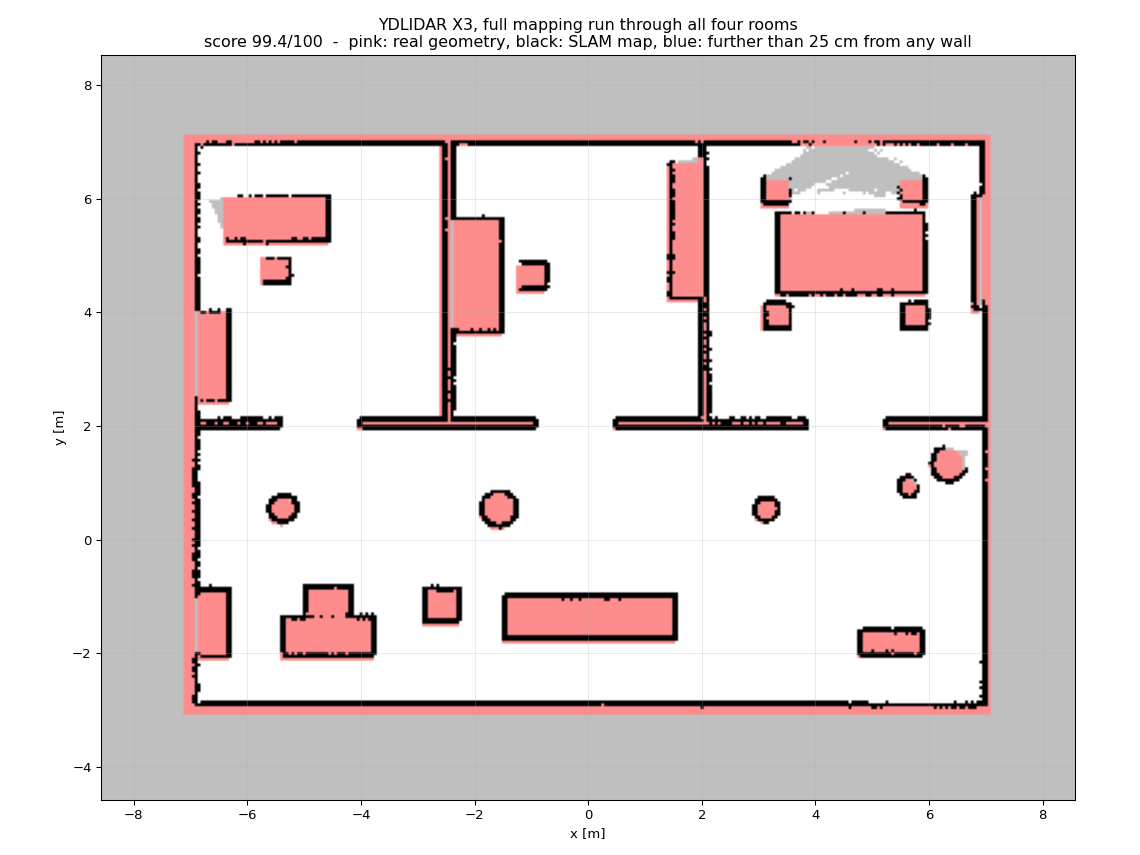
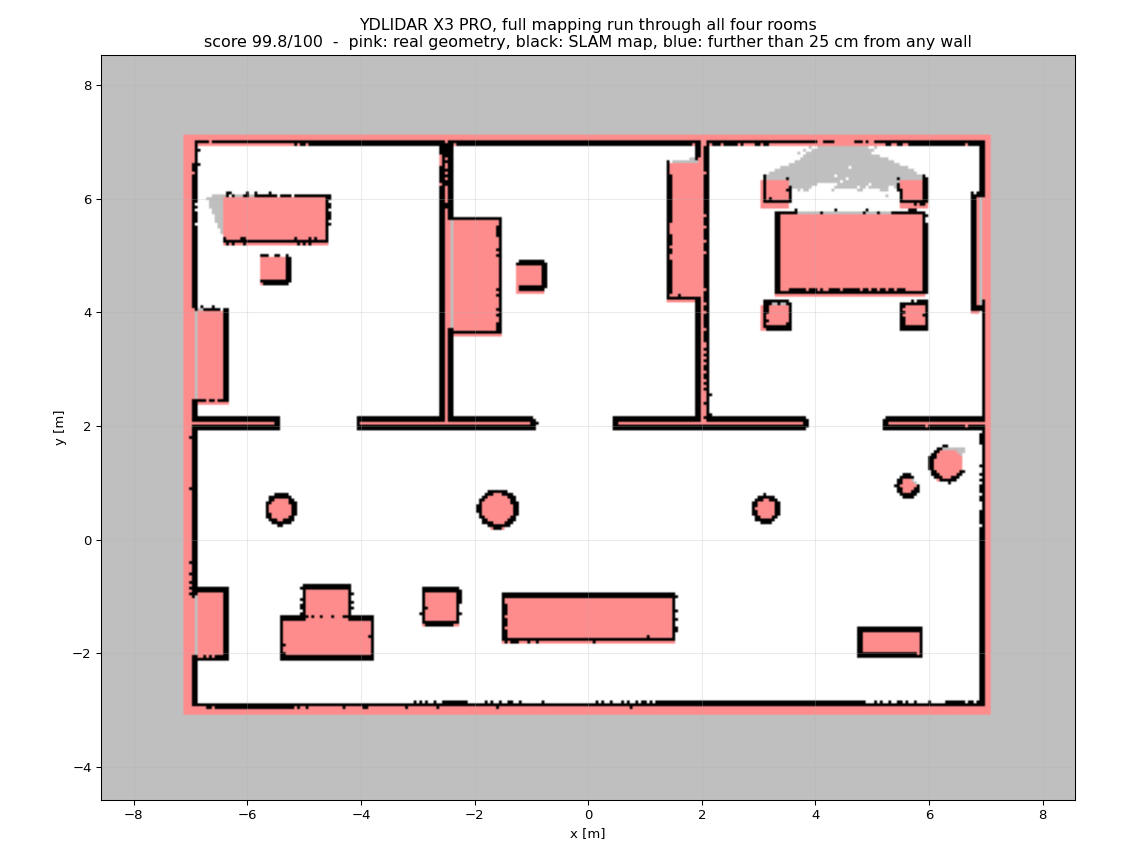
Model the LiDAR as the X3 PRO it actually is: 4 kHz, 5-10 Hz
The unit is a Yahboom-supplied YDLIDAR X3 PRO, not a plain X3. Two figures were
wrong: it samples at 4 kHz rather than 3 kHz, and the motor is adjustable over
5-10 Hz rather than 5-12. Since the head is a single-channel triangulation
scanner, samples per revolution is just the ratio of the two, so the resolution
follows:

     5 Hz -> 800 samples, 0.450 deg
     7 Hz -> 571 samples, 0.630 deg   <- what the model uses
    10 Hz -> 400 samples, 0.900 deg

The sensor block now carries 571 samples at 7 Hz (0.630 deg instead of the 0.857
it had), and the table is spelled out next to it so that changing the real scan
frequency does not silently leave the simulated scan at a different density.
Range stays 0.12-8 m, and the 40 klux ambient light figure is recorded in the
parameters table.

Rebuilt the shipped map with the corrected sensor. Score went from 99.4 to
99.8/100: every occupied cell now sits within 10 cm of a real obstacle, 99.8% of
real obstacles are found within 10 cm, and nothing is invented. SLAM stays
within 0.14 m of the ground-truth pose with no jumps while raw odometry drifts
to 3.79 m. Navigation on that map: 5/5 goals, no recovery behaviours, every goal
within 0.15 m.

diff --git a/README.md b/README.md
@@ -100,7 +100,7 @@ Mobile robot, autonomous navigation, industrial logistics, trajectory planning, 
 |---------|-------------|
 | **Real-time SLAM** | Simultaneous mapping and localization using SLAM Toolbox in asynchronous mode |
 | **Autonomous Navigation** | Full Nav2 stack with global planner (NavFn/Dijkstra) and local controller (DWB) |
-| **Obstacle Avoidance** | Real-time detection and evasion using a 360-degree YDLIDAR X3 |
+| **Obstacle Avoidance** | Real-time detection and evasion using a 360-degree YDLIDAR X3 PRO |
 | **Teleoperation GUI** | PyQt5 graphical interface with keyboard, virtual joystick, and slider control modes |
 | **Keyboard Teleoperation** | Standard teleop_twist_keyboard support for manual control during mapping |
 | **Full Visualization** | RViz2 with dynamic costmaps, planned trajectories, and AMCL particle clouds |
@@ -185,7 +185,7 @@ Spatial transform tree: `map -> odom -> base_link -> sensors`. The `odom_to_tf` 
 <img src="images/SLAM.png" width="800"/>
 </div>
 
-SLAM Toolbox runs in asynchronous mode, building graph-based 2D occupancy grid maps in real time. It processes LiDAR scans at 7 Hz and odometry at 50 Hz with pose-graph optimization and loop closure detection.
+SLAM Toolbox runs in asynchronous mode, building graph-based 2D occupancy grid maps in real time. It processes LiDAR scans at 7 Hz (571 points per revolution) and odometry at 50 Hz with pose-graph optimization and loop closure detection.
 
 ### Navigation System
 
@@ -262,11 +262,10 @@ Result for the shipped map, after a 90 m run through all four rooms:
 
 | Metric | Value |
 |--------|-------|
-| Occupied cells within 10 cm of a real obstacle | **99.8 %** |
-| Occupied cells within 20 cm | **100.0 %** |
+| Occupied cells within 10 cm of a real obstacle | **100.0 %** |
 | Occupied cells further than 50 cm (invented) | **0.0 %** |
-| Real obstacles found within 10 cm | **99.6 %** |
-| **Score** (precision@10cm x recall@10cm) | **99.4 / 100** |
+| Real obstacles found within 10 cm | **99.8 %** |
+| **Score** (precision@10cm x recall@10cm) | **99.8 / 100** |
 
 <div align="center">
 <img src="images/slam-map-quality.png" width="800"/>
@@ -275,9 +274,9 @@ Result for the shipped map, after a 90 m run through all four rooms:
 Pink is the real geometry, black is the SLAM map. There is no blue, meaning no
 occupied cell sits more than 25 cm from a real wall.
 
-The pose graph has to work for it: raw wheel odometry drifts to **4.13 m** over
-the run, while SLAM Toolbox stays within **0.18 m** of the Gazebo ground-truth
-pose the whole time.
+The pose graph has to work for it: raw wheel odometry drifts to **3.79 m** over
+the run, while SLAM Toolbox stays within **0.14 m** of the Gazebo ground-truth
+pose the whole time, with no jumps.
 
 <div align="center">
 <img src="images/slam-telemetry.png" width="960"/>
@@ -567,8 +566,9 @@ Axioma_robot/
 | Friction coefficient | 1.0 on all four wheels | model.sdf |
 | Max torque | 20 N*m per wheel | model.sdf |
 | Max wheel acceleration | 30 rad/s^2 (~1.14 m/s^2) | model.sdf |
-| LiDAR (YDLIDAR X3) | 360 deg, 0.12-8 m, 7 Hz, 420 samples/rev | model.sdf |
-| LiDAR angular resolution | 0.857 deg = 3 kHz ranging / 7 Hz scan rate | model.sdf |
+| LiDAR (YDLIDAR X3 PRO) | 360 deg, 0.12-8 m, 40 klux, 4 kHz ranging | model.sdf |
+| LiDAR scan rate | 5-10 Hz adjustable, simulated at 7 Hz | model.sdf |
+| LiDAR angular resolution | 0.630 deg = 4 kHz ranging / 7 Hz scan rate | model.sdf |
 
 ---
 
